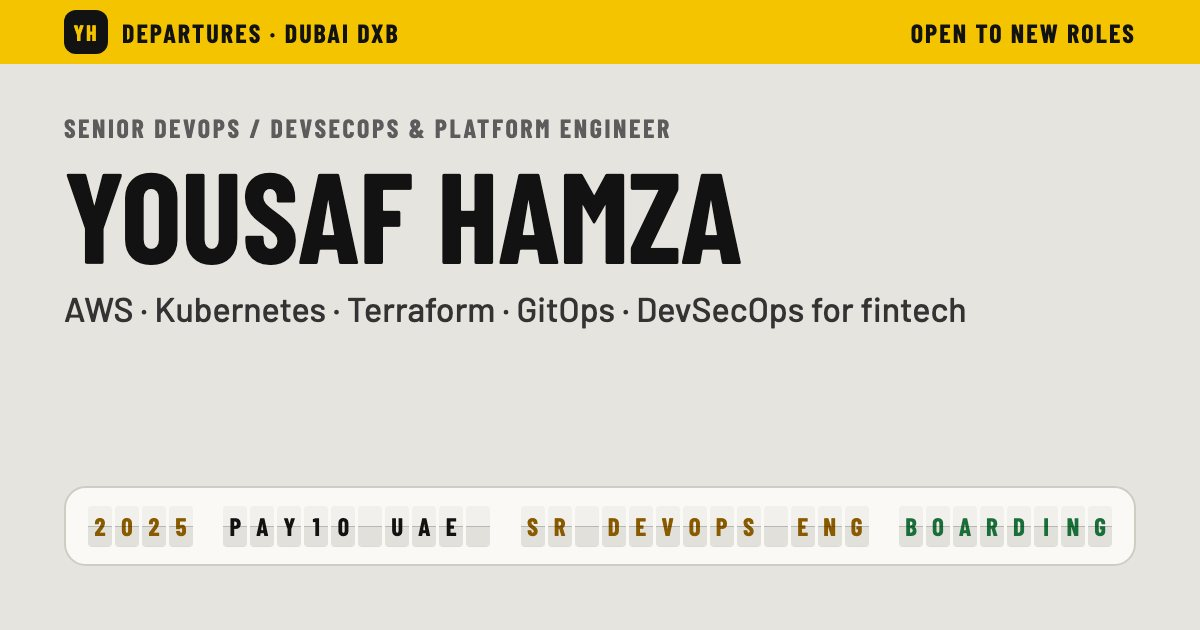
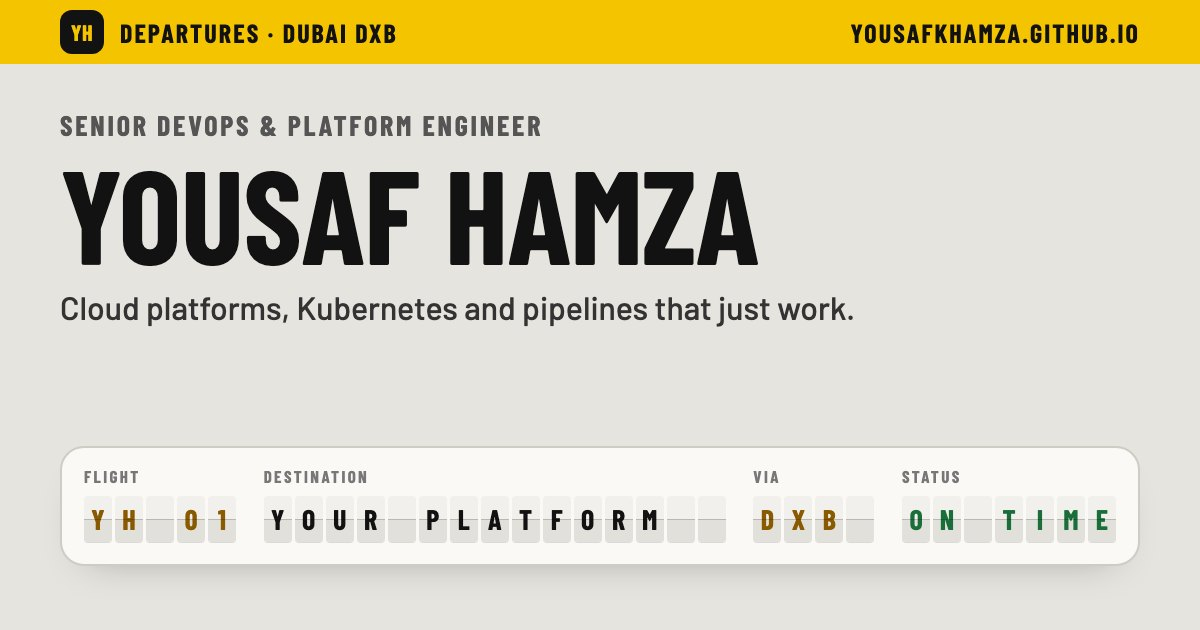
Timeless share image; LinkedIn post image
- Share preview (WhatsApp, link previews): no employer, year or niche
  claims; flap row reads YH 01 -> YOUR PLATFORM via DXB, ON TIME. v=5 so
  apps fetch it fresh
- Square LinkedIn post image at /share/linkedin-post.png: the three
  boards (career, projects, certifications) and the site address

diff --git a/index.html b/index.html
@@ -30,12 +30,12 @@
       content="Senior DevOps & Platform Engineer in Dubai, UAE: AWS, Kubernetes, Terraform, GitOps and DevSecOps for fintech."
     />
     <meta property="og:url" content="https://yousafkhamza.github.io/" />
-    <meta property="og:image" content="https://yousafkhamza.github.io/og-image.jpg?v=4" />
-    <meta property="og:image:secure_url" content="https://yousafkhamza.github.io/og-image.jpg?v=4" />
+    <meta property="og:image" content="https://yousafkhamza.github.io/og-image.jpg?v=5" />
+    <meta property="og:image:secure_url" content="https://yousafkhamza.github.io/og-image.jpg?v=5" />
     <meta property="og:image:type" content="image/jpeg" />
     <meta property="og:image:width" content="1200" />
     <meta property="og:image:height" content="630" />
-    <meta property="og:image:alt" content="Yousaf Hamza, Senior DevOps & Platform Engineer, Dubai" />
+    <meta property="og:image:alt" content="Yousaf Hamza, Senior DevOps & Platform Engineer in Dubai, UAE: a departure board reading YH 01 to your platform, on time" />
     <meta property="profile:first_name" content="Yousaf" />
     <meta property="profile:last_name" content="Hamza" />
     <meta name="twitter:card" content="summary_large_image" />
@@ -44,8 +44,8 @@
       name="twitter:description"
       content="Senior DevOps & Platform Engineer in Dubai, UAE: AWS, Kubernetes, Terraform, GitOps and DevSecOps for fintech."
     />
-    <meta name="twitter:image" content="https://yousafkhamza.github.io/og-image.jpg?v=4" />
-    <meta name="twitter:image:alt" content="Yousaf Hamza, Senior DevOps & Platform Engineer, Dubai" />
+    <meta name="twitter:image" content="https://yousafkhamza.github.io/og-image.jpg?v=5" />
+    <meta name="twitter:image:alt" content="Yousaf Hamza, Senior DevOps & Platform Engineer in Dubai, UAE: a departure board reading YH 01 to your platform, on time" />
 
     <script type="application/ld+json">
       {
